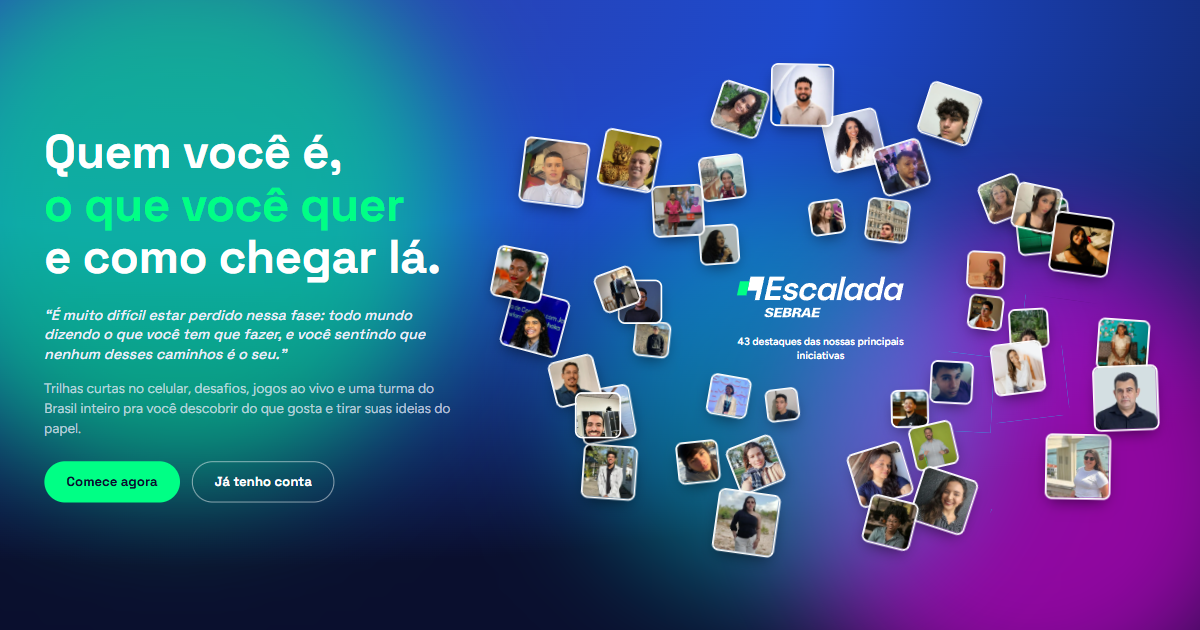
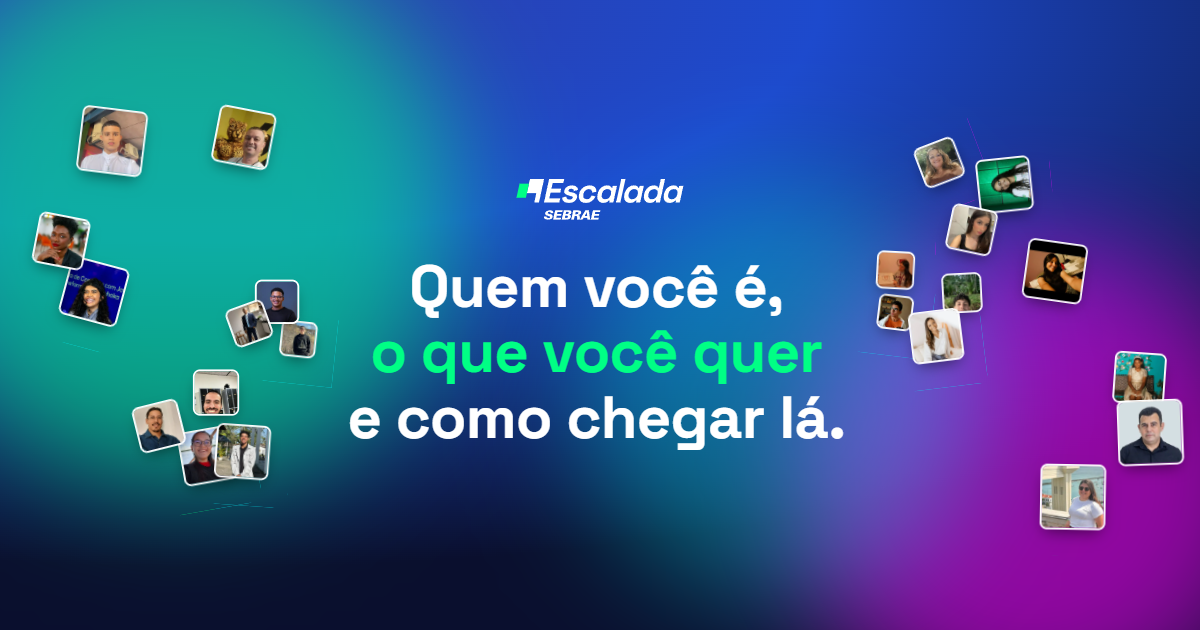
fix(dev): preview unico (og-geral recomposto, centro seguro pra recorte 1:1) em og:image e twitter:image

Changed region(s): [[0.0, 0.0905, 0.9867, 0.9048]]

diff --git a/dev/index.html b/dev/index.html
@@ -19,7 +19,7 @@
 <meta name="twitter:card" content="summary_large_image">
 <meta name="twitter:title" content="Escalada · Quem você é, o que você quer e como chegar lá">
 <meta name="twitter:description" content="Trilhas curtas no celular, desafios, jogos ao vivo e uma turma do Brasil inteiro pra você descobrir do que gosta e tirar suas ideias do papel. De graça, no Escalada.">
-<meta name="twitter:image" content="https://dev.escaladagame.com.br/og/og-x.png">
+<meta name="twitter:image" content="https://dev.escaladagame.com.br/og/og-geral.png">
 <link rel="icon" href="https://assets-tnl.org/cropped-Escalada-SEBRAE-7-32x32.png">
 <link rel="stylesheet" href="/landing/fonts.css">
 <link rel="stylesheet" href="/landing/lp.css">
